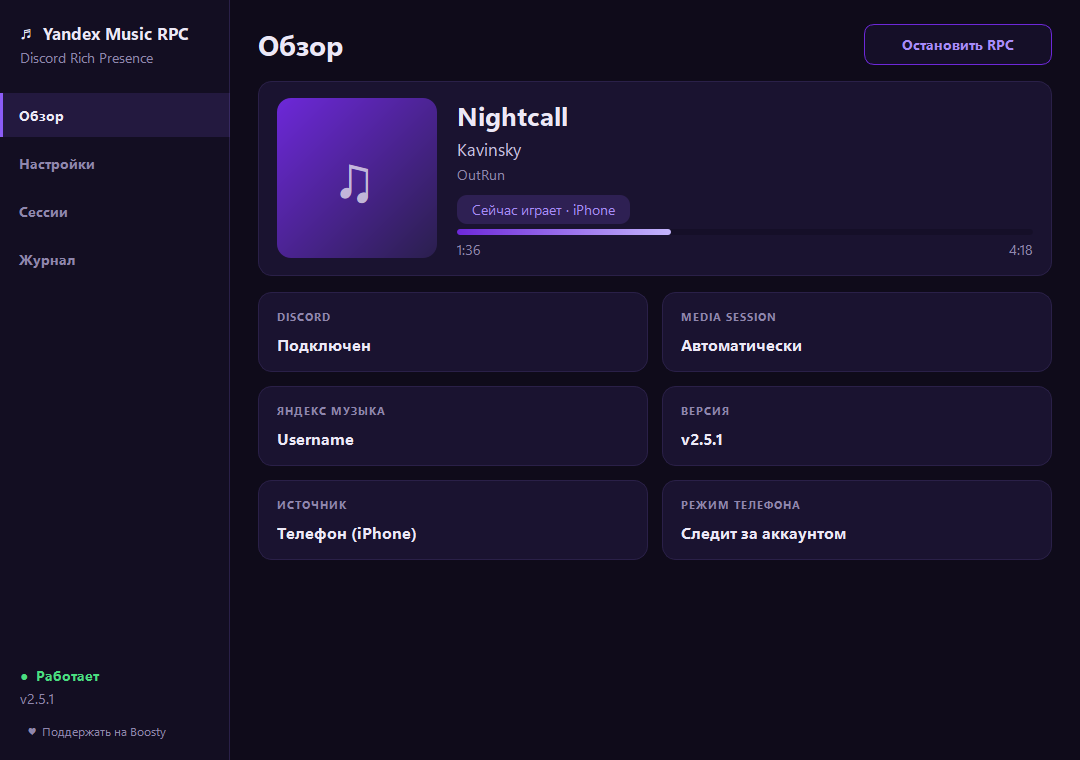
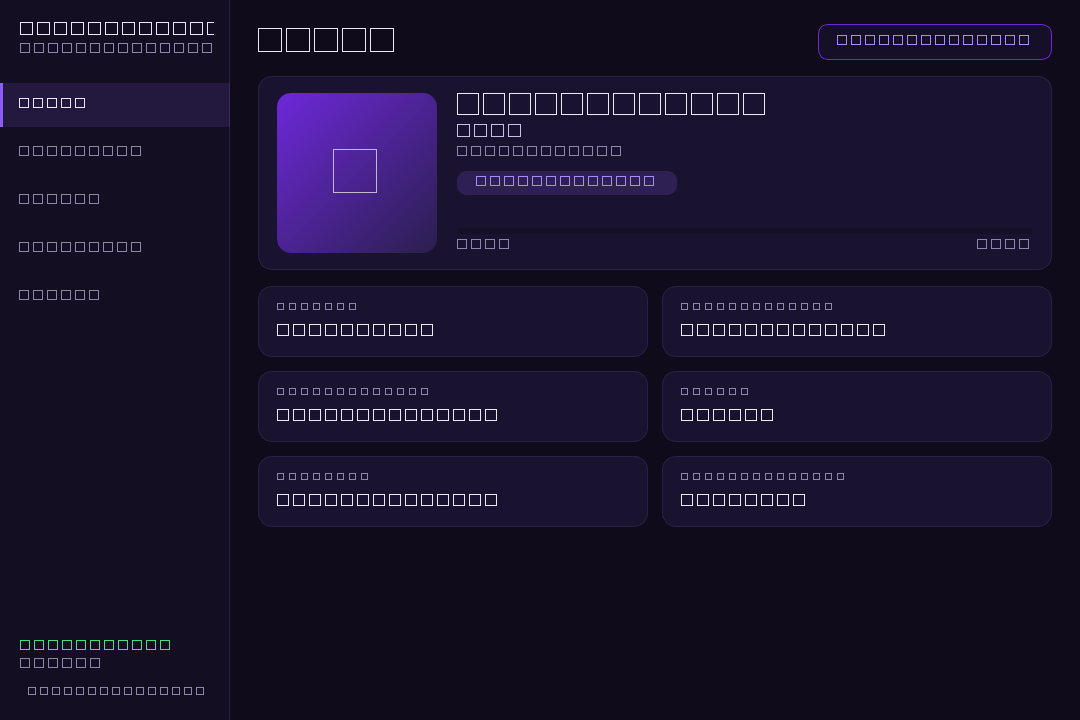
docs: update screenshots with new UI and AI recommendations tab

diff --git a/README.md b/README.md
@@ -96,6 +96,10 @@ pyinstaller --noconfirm gui_app.spec
 | Количество треков | Сколько рекомендаций подбирать за один раз (от 4 до 10) |
 
 ### AI Советы и рекомендации (Gemini)
+<p align="center">
+  <img src="docs/screenshots/recommendations.png" alt="Yandex Music RPC: AI Советы Gemini" width="620">
+</p>
+
 Приложение накапливает историю прослушанных треков в локальной базе данных SQLite (`%LOCALAPPDATA%\WinYandexMusicRPC\history.db`). Во вкладке **«AI Советы»** нейросеть Gemini выступает в роли личного музыкального куратора:
 - **5 режимов подбора:** на основе недавней истории, похожее на текущий трек, музыкальные открытия (Discovery), энергичное и драйвовое, спокойное и атмосферное.
 - **Проверка в каталоге Яндекс Музыки:** для каждой рекомендации от AI приложение автоматически находит официальный трек, загружает обложку и даёт прямую ссылку на трек/альбом.
